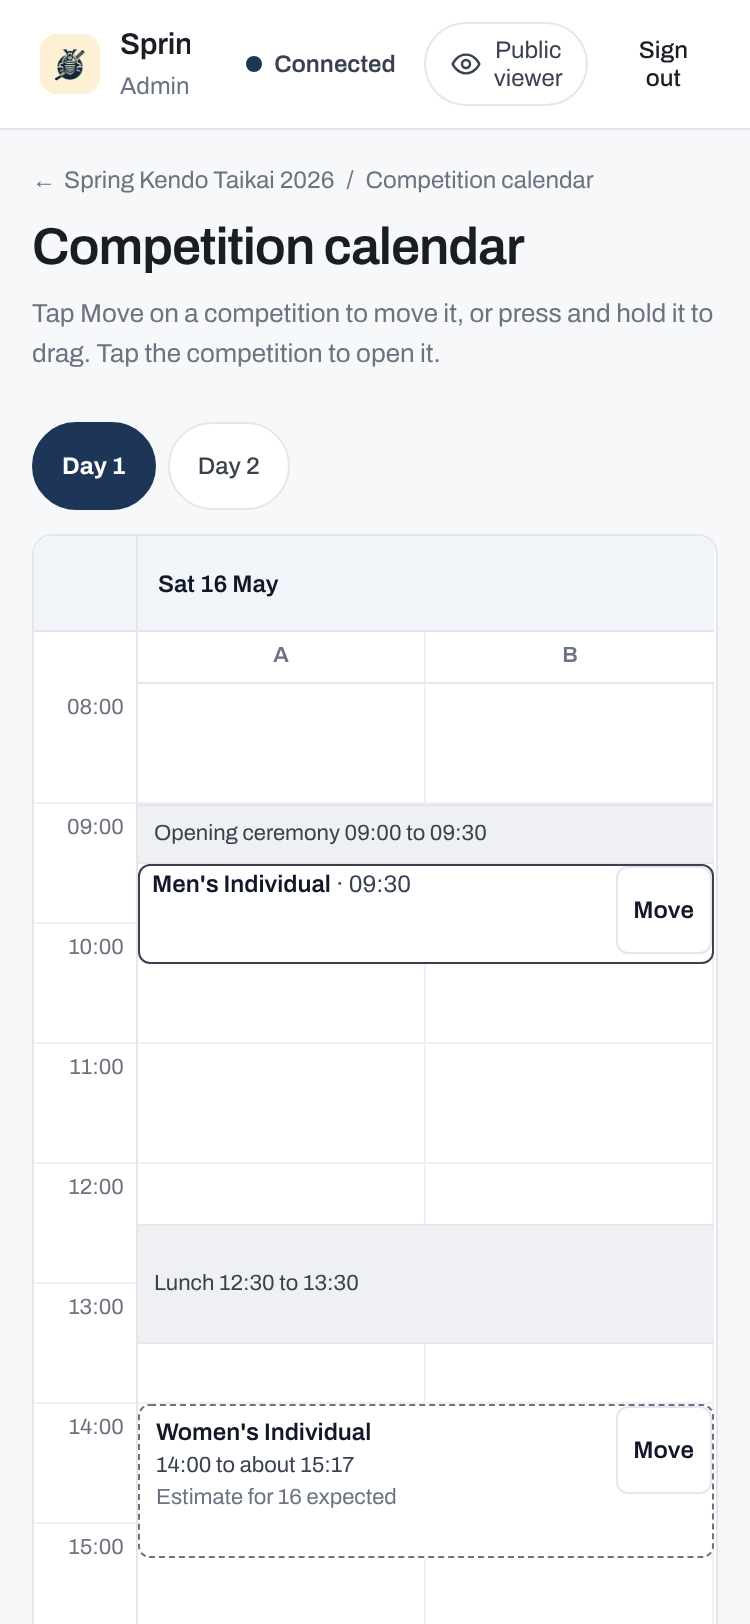
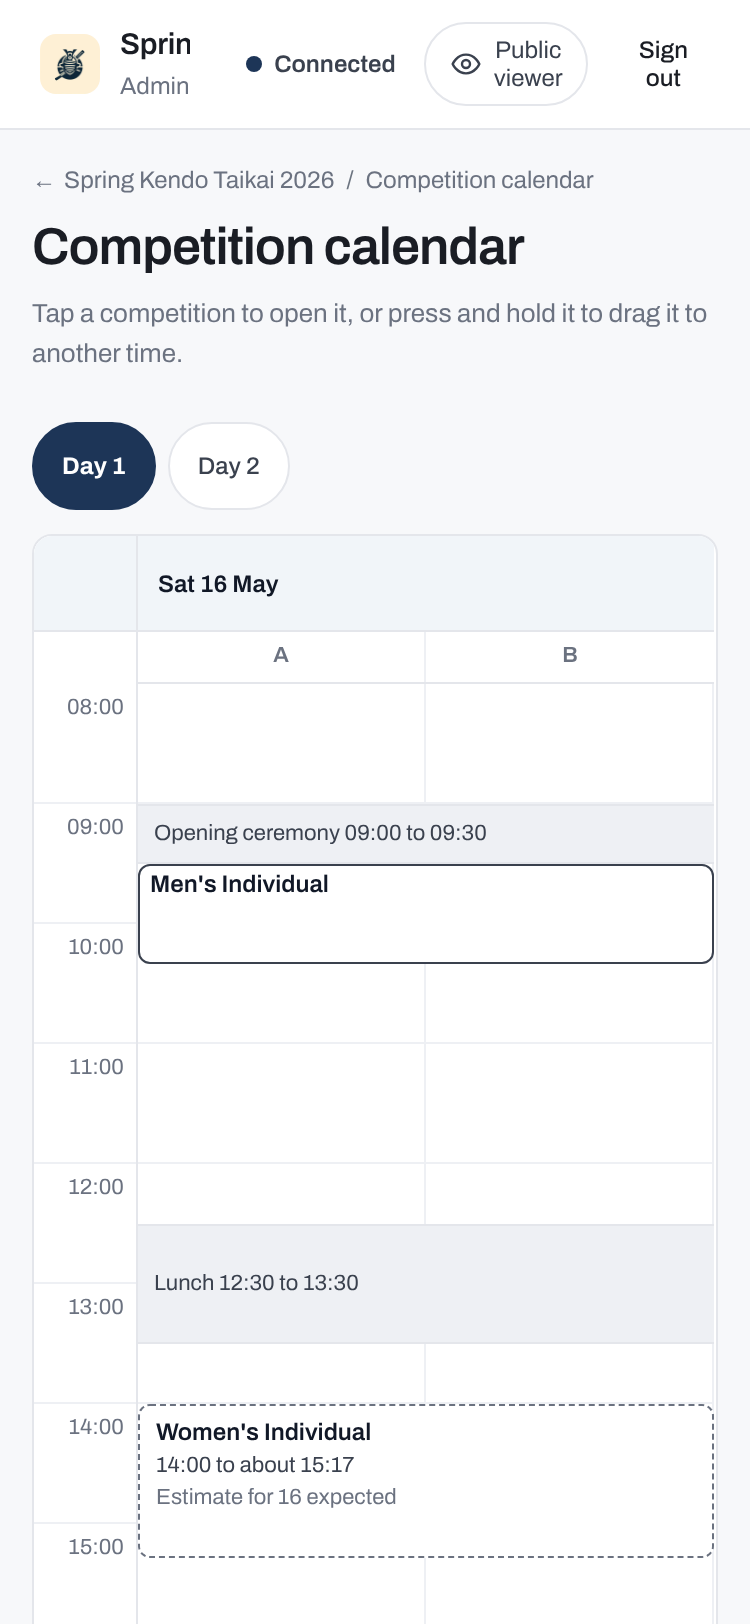
fix(mp-lw5p): every calendar block at its real length, and no Move buttons on a phone
A touch screen no longer stretches a block to fit its Move button: the
100 px floor on a narrow block and the 44 px floor on a short one are gone,
so every block is drawn at its real start and end.

On a touch phone no block shows a Move button. A tap opens the
competition, press and hold drags it (let go in place and the Move dialog
opens), and the M key still moves it. A short block there shows its name
only and does not lift. A touch tablet keeps its Move buttons where they
fit (46 px beside the name, 68 px under it on a narrow block); a block too
short for one shows its name only.

The calendar journey now checks, on the 375 px phone, that no block has a
Move button, that a short competition sits on its real start and end rows
with only its name and opens on a tap, and that a press and hold then a
drag moves a block; and that a 768 px touch tablet keeps Move clear of the
names. The same-start pair no longer needs padded entry counts.

diff --git a/web-mobile/js/admin_calendar.jsx b/web-mobile/js/admin_calendar.jsx
@@ -24,10 +24,25 @@ export const CASCADE_PX = 24;
 // A block that starts this close below an earlier one it overlaps would hide
 // the earlier one's name and time, so it is inset to half the earlier block.
 export const NEAR_START_PX = 60;
-// Under this much visible width a touch screen's 44 px Move button and a
+// Under this much visible width a touch tablet's 44 px Move button and a
 // readable name do not fit side by side, so Move goes on a row of its own
-// under the name (a phone's 76 px lanes always do).
+// under the name. (A touch phone shows no Move button at all.)
 export const NARROW_BLOCK_PX = 120;
+// A touch screen's Move row: the 44 px button and the 2 px under it. Beside
+// the name (a wide block) Move needs that much height; under it (a narrow
+// block) it needs the name's row as well: 6 px padding, one 15 px name line
+// (12 px at 1.25) and the block's 1 px border.
+export const MOVE_ROW_PX = 46;
+export const NAME_ROW_PX = 22;
+
+/**
+ * Does a touch tablet's Move button fit in a block this tall? A block is drawn
+ * at its real length, so one too short for it shows its name only, opens on a
+ * tap and is moved by press and hold (or the M key) instead.
+ */
+export function touchMoveFits(height, narrow) {
+  return height >= (narrow ? NAME_ROW_PX + MOVE_ROW_PX : MOVE_ROW_PX);
+}
 export const REFRESH_DEBOUNCE_MS = 1000;
 export { PX_PER_MINUTE, shiftLanes };
 
@@ -403,14 +418,26 @@ export function computeBlocksLayout({ calendar, visibleDays, courts, laneWidth, 
  * minutes, so its text can run past its foot; the line the foot would cut is
  * clamped to the lines that fit and the lines after it are left out. The
  * name always stays, and a short block is left alone (it shows one line at
- * rest and lifts on hover or focus). Their aria-label still says it all.
+ * rest and lifts on hover or focus). A block that shows its name only (too
+ * short for a touch screen's Move button) keeps the whole name lines that fit,
+ * one at least. Their aria-label still says it all.
  */
 export function fitBlockLines(root) {
   if (!root) return;
-  root.querySelectorAll('.cal-block:not(.cal-block--short) .cal-block__open').forEach((open) => {
+  root.querySelectorAll('.cal-block:not(.cal-block--short) .cal-block__open, .cal-block--name-only .cal-block__open').forEach((open) => {
     const content = open.querySelector('.cal-block__content');
     if (!content) return;
-    const lines = Array.from(content.children).slice(1);
+    const [name, ...lines] = Array.from(content.children);
+    if (open.closest?.('.cal-block')?.classList.contains('cal-block--name-only')) {
+      lines.forEach((el) => { el.style.display = 'none'; });
+      if (!name || open.clientHeight === 0) return;
+      const pad = getComputedStyle(open);
+      const avail = open.clientHeight - (parseFloat(pad.paddingTop) || 0) - (parseFloat(pad.paddingBottom) || 0);
+      const lineH = parseFloat(getComputedStyle(name).lineHeight) || 15;
+      name.style.webkitLineClamp = String(Math.max(1, Math.floor(avail / lineH)));
+      return;
+    }
+    if (name?.style.webkitLineClamp) name.style.webkitLineClamp = '';
     lines.forEach((el) => {
       el.style.display = '';
       el.style.webkitLineClamp = '';
@@ -1078,7 +1105,9 @@ export function AdminCalendarPage({
     }
   }
 
-  const instructionCopy = isCoarse
+  const instructionCopy = isCoarse && isPhoneScreen
+    ? 'Tap a competition to open it, or press and hold it to drag it to another time.'
+    : isCoarse
     ? 'Tap Move on a competition to move it, or press and hold it to drag. Tap the competition to open it.'
     : 'Drag a competition to move it, or use its Move button. Click it to open it.';
 
@@ -1316,13 +1345,22 @@ export function AdminCalendarPage({
                         else blockClass += ' cal-block--estimate';
 
                         if (block.short && !isPlaceholder) blockClass += ' cal-block--short';
-                        if (isMovable(comp)) blockClass += ' cal-block--movable';
                         // Too little of it in view for the name and a touch
                         // screen's Move button side by side: Move takes a row
                         // of its own at the foot.
                         const covered = block.coveredRight || 0;
                         const narrow = block.width - covered < NARROW_BLOCK_PX;
                         if (narrow) blockClass += ' cal-block--narrow';
+                        // A touch phone shows no Move button: a tap opens the
+                        // block, press and hold drags it (or, let go in place,
+                        // opens the Move dialog), and the M key moves it. A
+                        // touch tablet's block too short for Move shows its name
+                        // only, as a phone's short block does.
+                        const phoneTouch = isCoarse && layout.isPhone;
+                        const moveShown = isMovable(comp) && !phoneTouch && (!isCoarse || touchMoveFits(block.height, narrow));
+                        const extras = renderBlockExtras?.(comp);
+                        if (moveShown) blockClass += ' cal-block--movable';
+                        else if (phoneTouch ? block.short && !isPlaceholder : isMovable(comp)) blockClass += ' cal-block--name-only';
                         if (block.hasOverlap || block.pastMidnight) {
                           blockClass += ' cal-block--warn';
                         }
@@ -1456,8 +1494,9 @@ export function AdminCalendarPage({
                               </div>
                             </div>
 
+                            {(moveShown || extras) && (
                             <div className="cal-block__move-slot">
-                              {isMovable(comp) && (
+                              {moveShown && (
                                 <button
                                   type="button"
                                   className="cal-block__move-btn"
@@ -1466,8 +1505,9 @@ export function AdminCalendarPage({
                                   onClick={(e) => { e.stopPropagation(); setMoveDialog({ comp }); }}
                                 >Move</button>
                               )}
-                              {renderBlockExtras?.(comp)}
+                              {extras}
                             </div>
+                            )}
                           </div>
                         );
                       })}

diff --git a/web-mobile/js/__tests__/admin_calendar.test.jsx b/web-mobile/js/__tests__/admin_calendar.test.jsx
@@ -24,6 +24,9 @@ import {
   CASCADE_PX,
   pauseLabelLane,
   fitBlockLines,
+  touchMoveFits,
+  MOVE_ROW_PX,
+  NAME_ROW_PX,
   calendarLayout,
   withContentKeys,
 } from '../admin_calendar.jsx';
@@ -475,6 +478,24 @@ describe('admin_calendar pure layout helper', () => {
     });
   });
 
+  describe('touchMoveFits', () => {
+    it('fits a touch screen\'s Move beside the name from 46 px, and under it from 68 px', () => {
+      expect(MOVE_ROW_PX).toBe(46);
+      expect(NAME_ROW_PX + MOVE_ROW_PX).toBe(68);
+      expect(touchMoveFits(45, false)).toBe(false);
+      expect(touchMoveFits(46, false)).toBe(true);
+      expect(touchMoveFits(67, true)).toBe(false);
+      expect(touchMoveFits(68, true)).toBe(true);
+    });
+    it('draws every block at its real length on a touch screen: no minimum height for a movable block', () => {
+      const css = readFileSync(resolve(dirname(fileURLToPath(import.meta.url)), '..', '..', 'css', 'styles.css'), 'utf8');
+      const coarse = (css.match(/@media \(pointer: coarse\)\s*\{[\s\S]*?\n\}/g) || []).join('\n');
+      const rules = coarse.match(/[^{}]*cal-block--movable[^{}]*\{[^}]*\}/g) || [];
+      for (const r of rules) expect(r).not.toMatch(/min-height/);
+      expect(coarse).toMatch(/\.cal-block--name-only:hover,\s*\.cal-block--name-only:focus-within\s*\{\s*min-height:\s*0;/);
+    });
+  });
+
   describe('pauseLabelLane', () => {
     it('puts a pause\'s name in the first lane no block covers during it', () => {
       const blocks = [{ startMins: 570, endMins: 900, minCourtIdx: 0, maxCourtIdx: 0 }];
@@ -506,6 +527,24 @@ describe('admin_calendar pure layout helper', () => {
       expect(warn.style.display).toBe('-webkit-box');
       expect(warn.style.webkitLineClamp).toBe('2');
       expect(meta.style.display).toBe('none');
+    });
+    it('keeps a name-only block to the whole name lines that fit, one at least, and none of its other lines', () => {
+      const name = line(2, 30);
+      const time = line(32, 14);
+      const content = { children: [name, time] };
+      const frame = { classList: { contains: (c) => c === 'cal-block--name-only' } };
+      const open = { clientHeight: 34, querySelector: () => content, closest: () => frame };
+      const saved = globalThis.getComputedStyle;
+      globalThis.getComputedStyle = (el) => (el === open ? { paddingTop: '2px', paddingBottom: '2px' } : { lineHeight: '15px' });
+      try {
+        fitBlockLines({ querySelectorAll: () => [open] });
+        expect(name.style.webkitLineClamp).toBe('2');
+        expect(time.style.display).toBe('none');
+        fitBlockLines({ querySelectorAll: () => [{ ...open, clientHeight: 10 }] });
+        expect(name.style.webkitLineClamp).toBe('1');
+      } finally {
+        globalThis.getComputedStyle = saved;
+      }
     });
     it('leaves a block that has no height yet alone', () => {
       const meta = line(83, 14);

diff --git a/web-mobile/css/styles.css b/web-mobile/css/styles.css
@@ -12038,11 +12038,9 @@ abbr.msb-lab { text-decoration: none; cursor: help; }
 @media (pointer: coarse) {
   /* The name and time lines beside the 44 px Move button keep clear of it;
      the lines below it use the block's full width, which a phone's narrow
-     lane needs. A block with no Move button keeps all of its width. */
-  /* A short movable block is drawn tall enough for its whole Move button. */
-  .cal-block--short.cal-block--movable {
-    min-height: 44px;
-  }
+     lane needs. A block with no Move button keeps all of its width. Every
+     block is drawn at its real length: one too short for Move shows its name
+     only (cal-block--name-only, touchMoveFits in admin_calendar.jsx). */
   .cal-block--movable .cal-block__content::before {
     content: '';
     float: right;
@@ -12054,11 +12052,7 @@ abbr.msb-lab { text-decoration: none; cursor: help; }
     min-height: 44px;
   }
   /* Too narrow for the name beside Move: the name and time take the whole
-     width and Move a row of its own at the foot, the block drawn tall enough
-     for both. */
-  .cal-block--narrow.cal-block--movable {
-    min-height: 100px;
-  }
+     width and Move a row of its own at the foot. */
   .cal-block--narrow.cal-block--movable .cal-block__open {
     padding: 6px 5px 46px;
   }
@@ -12068,15 +12062,20 @@ abbr.msb-lab { text-decoration: none; cursor: help; }
   .cal-block--narrow.cal-block--movable .cal-block__name {
     -webkit-line-clamp: 3;
   }
-  /* A touch screen keeps a hover after a tap: a short narrow block stays at
-     its name and start, with the Move row under them, hovered or not. */
-  .cal-block--short.cal-block--narrow.cal-block--movable .cal-block__time,
-  .cal-block--short.cal-block--narrow.cal-block--movable .cal-block__meta,
-  .cal-block--short.cal-block--narrow.cal-block--movable .cal-block__warn-line {
-    display: none;
+  /* Name only, at its real length: a touch screen keeps a hover after a tap,
+     so the block neither lifts nor shows its other lines then either. */
+  .cal-block--name-only:hover,
+  .cal-block--name-only:focus-within {
+    min-height: 0;
   }
-  .cal-block--short.cal-block--narrow.cal-block--movable .cal-block__short-start {
-    display: inline;
+  .cal-block--name-only .cal-block__open {
+    padding: 2px 5px;
+  }
+  .cal-block--name-only .cal-block__time,
+  .cal-block--name-only .cal-block__meta,
+  .cal-block--name-only .cal-block__warn-line,
+  .cal-block--name-only .cal-block__short-start {
+    display: none;
   }
   .cal-block--narrow .cal-block__move-slot {
     top: auto;

diff --git a/web-mobile/js/__tests__/render/admin_calendar.render.test.jsx b/web-mobile/js/__tests__/render/admin_calendar.render.test.jsx
@@ -369,6 +369,38 @@ describe('AdminCalendarPage render tests', () => {
     expect(container.querySelector('[role="button"] button, button button, [role="button"] [role="button"]')).toBeNull();
   });
 
+  it('on a touch screen, gives a block too short for Move its name only and no Move button, and M still moves it', async () => {
+    const savedMatchMedia = window.matchMedia;
+    window.matchMedia = (q) => ({ matches: q === '(pointer: coarse)', addEventListener() {}, removeEventListener() {} });
+    try {
+      const onOpenCompetition = vi.fn();
+      // The Move dialog reads the competition afresh when it opens.
+      window.API.fetchCompetitions = vi.fn(() => new Promise(() => {}));
+      window.API.fetchCalendar.mockResolvedValue({
+        days: [{ day: 1, date: '16-05-2026', breaks: [] }],
+        courts: ['A', 'B'],
+        competitions: [
+          { id: 's1', name: 'Short One', status: 'setup', placement: { placed: true, day: 1, courts: ['A'], lengthSource: 'estimate', windows: { A: { start: 600, end: 630 } } } },
+          { id: 'l1', name: 'Long One', status: 'setup', placement: { placed: true, day: 1, courts: ['B'], lengthSource: 'estimate', windows: { B: { start: 600, end: 720 } } } },
+        ],
+      });
+      render(<AdminCalendarPage tournament={TOURNAMENT} password="pass" onBack={() => {}} onOpenCompetition={onOpenCompetition} />);
+      await waitFor(() => expect(screen.getByText('Short One')).toBeInTheDocument());
+
+      const short = screen.getByRole('button', { name: /^Short One, / });
+      expect(short.getAttribute('aria-label')).toBe('Short One, 10:00 to about 10:30.');
+      expect(short.closest('[data-testid="cal-block"]').className).toContain('cal-block--name-only');
+      expect(screen.queryByRole('button', { name: 'Move Short One' })).toBeNull();
+      expect(screen.getByRole('button', { name: 'Move Long One' })).toBeInTheDocument();
+
+      fireEvent.keyDown(short, { key: 'm' });
+      await waitFor(() => expect(screen.getByTestId('cal-move-dialog')).toBeInTheDocument());
+      expect(screen.getByRole('heading', { name: 'Move Short One' })).toBeInTheDocument();
+    } finally {
+      window.matchMedia = savedMatchMedia;
+    }
+  });
+
   it('calls onOpenCompetition on click under MOUSE_SLOP_PX and on Enter key', async () => {
     const onOpenCompetition = vi.fn();
     window.API.fetchCalendar.mockResolvedValue({

diff --git a/docs/user-guide/organisers/run-tournament.md b/docs/user-guide/organisers/run-tournament.md
@@ -364,9 +364,9 @@ A few notices can appear above the calendar:
 
 ### Moving a competition on the calendar
 
-Drag a competition's block to another day or start time. On a touch screen, press and hold the block first, then drag. You can also use the block's **Move** button, or press **M** while the block is focused. The Move dialog lets you pick the day, the start time and the shiai-jo. Starts snap to 5 minutes, and a start that falls inside a pause moves to the end of that pause. A move that makes two competitions overlap on a shiai-jo is a warning, never a block. A competition that is running or completed cannot be moved, and its block says so. Pause times are drawn as bands across each day, and the time span in a block reads, for example, *09:30 to about 13:38* for an estimate or *14:15 to 16:02* for a draw. A block built from an expected number says so (*Estimate for 24 expected*).
+Drag a competition's block to another day or start time. On a touch screen, press and hold the block first, then drag; let go without dragging and the Move dialog opens. On a computer or a tablet you can also use the block's **Move** button, or press **M** while the block is focused. A phone shows no Move buttons: tap a block to open its competition. Every block is drawn at its real start and end, so a short one may show only its name, and on a tablet a block too short for its Move button has none. The Move dialog lets you pick the day, the start time and the shiai-jo. Starts snap to 5 minutes, and a start that falls inside a pause moves to the end of that pause. A move that makes two competitions overlap on a shiai-jo is a warning, never a block. A competition that is running or completed cannot be moved, and its block says so. Pause times are drawn as bands across each day, and the time span in a block reads, for example, *09:30 to about 13:38* for an estimate or *14:15 to 16:02* for a draw. A block built from an expected number says so (*Estimate for 24 expected*).
 
-![The calendar on a phone: buttons for Day 1 and Day 2, the first day's shiai-jo A and B, and the Men's Individual and Women's Individual blocks, each with its Move button.](../../screenshots/mobile-calendar-phone.png)
+![The calendar on a phone: buttons for Day 1 and Day 2, the first day's shiai-jo A and B, and the Men's Individual and Women's Individual blocks, with no Move buttons.](../../screenshots/mobile-calendar-phone.png)
 
 ![The Move dialog for Women's Individual: the day, a start time of 11:00, shiai-jo A and B chosen, and the line Runs 11:00 to about 12:17, with Cancel and Move.](../../screenshots/mobile-calendar-move.png)
 
